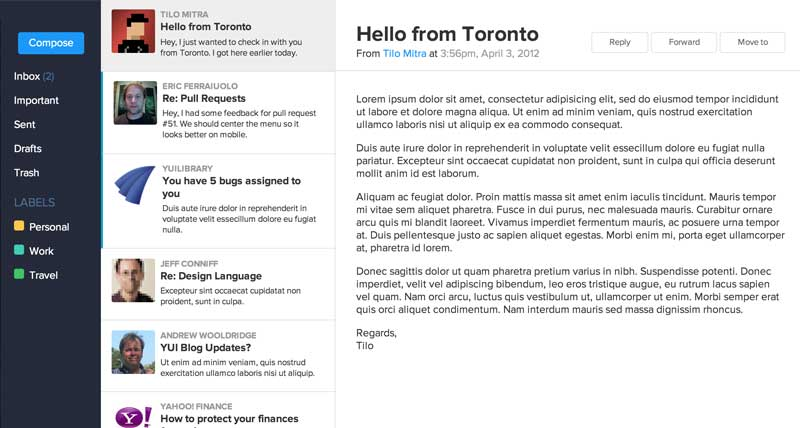
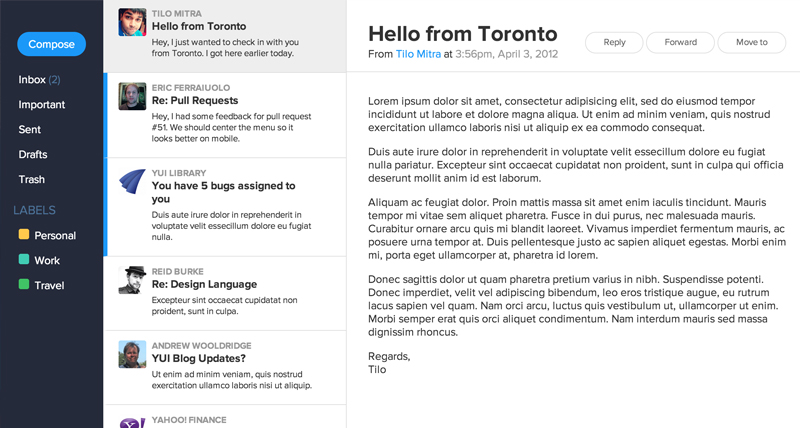
update email layout to be mobile-first

diff --git a/public/css/layouts/email.css b/public/css/layouts/email.css
@@ -1,43 +1,38 @@
+/*
+ * -- BASE STYLES --
+ * Most of these are inherited from Base, but I want to change a few.
+ */
 body {
     color: #333;
 }
+
+
+
 a {
     text-decoration: none;
     color: #1b98f8;
 }
 
-/* LAYOUT CSS */
-#layout {
-    padding-left:500px; /* "left col (nav + list)" width */
-    position: relative;
+/*
+ * -- FONT-FAMILY STYLES --
+ * This is the font-family that I want to use for this page
+ */
+body,
+.pure-g [class *= "pure-u"] {
+    font-family: "proxima-nova", sans-serif;
 }
 
-#nav, #list {
-    position: fixed;
-    top: 0;
-    bottom: 0;
-    overflow: auto;
-}
-#nav {
-    margin-left:-500px; /* "left col (nav + list)" width */
-    width:150px;
-    background: rgb(37, 42, 58);
-    text-align: center;
-    padding: 2em 0;
-}
 
-#list {
-    margin-left: -350px;
-    width:350px;
-    border-right: 1px solid #ddd;
-}
-
-/* HELPER CLASSES */
+/*
+ * -- HELPER STYLES --
+ * Over-riding some of the .pure-button styles to make my buttons look unique
+ */
 .primary-button,
 .secondary-button {
     -webkit-box-shadow: none;
     -moz-box-shadow: none;
     box-shadow: none;
+    border-radius: 20px;
 }
 .primary-button {
     color: #fff;
@@ -52,10 +47,52 @@ a {
     font-size: 80%;
 }
 
+/*
+ * -- LAYOUT STYLES --
+ * This layout consists of three main elements, `#nav` (navigation bar), `#list` (email list), and `#main` (email content). All 3 elements are within `#layout`
+ */
+#layout, #nav, #list, #main {
+    margin: 0;
+    padding: 0;
+}
+
+/* Make the navigation 100% width on phones */
+#nav {
+    width: 100%;
+    height: 40px;
+    position: relative;
+    background: rgb(37, 42, 58);
+    text-align: center;
+}
+/* Show the "Menu" button on phones */
+#nav .nav-menu-button {
+    display: block;
+    top: 0.5em;
+    right: 0.5em;
+    position: absolute;
+}
+
+/* When "Menu" is clicked, the navbar should be 80% height */
+#nav.active {
+    height: 80%;
+}
+/* Don't show the navigation items... */
+.nav-inner {
+    display: none;
+}
+
+/* ...until the "Menu" button is clicked */
+#nav.active .nav-inner {
+    display: block;
+    padding: 2em 0;
+}
 
 
-/* Vertical Navigation Styles */
-#nav .pure-menu {
+/*
+ * -- NAV BAR STYLES --
+ * Styling the default .pure-menu to look a little more unique.
+ */
+#nav .pure-menu.pure-menu-open {
     background: transparent;
     border: none;
     text-align: left;
@@ -74,34 +111,33 @@ a {
         color: rgb(75, 113, 151);
     }
 
-    #nav .nav-menu-button {
-        display: none;
-    }
 
-    .email-count {
-        color: rgb(75, 113, 151);
-    }
+/*
+ * -- EMAIL STYLES --
+ * Styles relevant to the email messages, labels, counts, and more.
+ */
+.email-count {
+    color: rgb(75, 113, 151);
+}
 
-    .email-label-personal,
-    .email-label-work,
-    .email-label-travel {
-        width: 15px;
-        height: 15px;
-        display: inline-block;
-        margin-right: 0.5em;
-        border-radius: 3px;
-    }
-    .email-label-personal {
-        background: #ffc94c;
-    }
-    .email-label-work {
-        background: #41ccb4;
-    }
-    .email-label-travel {
-        background: #40c365;
-    }
-
-
+.email-label-personal,
+.email-label-work,
+.email-label-travel {
+    width: 15px;
+    height: 15px;
+    display: inline-block;
+    margin-right: 0.5em;
+    border-radius: 3px;
+}
+.email-label-personal {
+    background: #ffc94c;
+}
+.email-label-work {
+    background: #41ccb4;
+}
+.email-label-travel {
+    background: #40c365;
+}
 
 
 /* Email Item Styles */
@@ -131,7 +167,7 @@ a {
     background: #eee;
 }
 .email-item-unread {
-    border-left: 6px solid #02a3c6;
+    border-left: 6px solid #1b98f8;
 }
 
 /* Email Content Styles */
@@ -161,21 +197,56 @@ a {
             margin-bottom: 0.3em;
         }
 
-
-@media (max-width: 867px) {
-
-    #list,
-    #main {
-        width: 100%;
+    .email-avatar {
+        width: 40px;
+        height: 40px;
     }
+
+
+/*
+ * -- TABLET (AND UP) MEDIA QUERIES --
+ * On tablets and other medium-sized devices, we want to customize some
+ * of the mobile styles.
+ */
+@media (min-width: 40em) {
+
+    /* Move the layout over so we can fit the nav + list in on the left */
     #layout {
-        padding-left: -150px;
+        padding-left:500px; /* "left col (nav + list)" width */
+        position: relative;
     }
+
+    /* These are position:fixed; elements that will be in the left 500px of the screen */
+    #nav, #list {
+        position: fixed;
+        top: 0;
+        bottom: 0;
+        overflow: auto;
+    }
+    #nav {
+        margin-left:-500px; /* "left col (nav + list)" width */
+        width:150px;
+        height: 100%;
+    }
+
+    /* Show the menu items on the larger screen */
+    .nav-inner {
+        display: block;
+        padding: 2em 0;
+    }
+
+    /* Hide the "Menu" button on larger screens */
+    #nav .nav-menu-button {
+        display: none;
+    }
+
     #list {
+        margin-left: -350px;
+        width: 100%;
         height: 33%;
-        border-right: 0;
         border-bottom: 1px solid #ddd;
     }
+
     #main {
         position: fixed;
         top: 33%;
@@ -185,36 +256,29 @@ a {
         overflow: auto;
         width: auto; /* so that it's not 100% */
     }
+
 }
 
-@media (max-width: 480px) {
-    #layout, #nav, #list, #main {
+/*
+ * -- DESKTOP (AND UP) MEDIA QUERIES --
+ * On desktops and other large-sized devices, we want to customize some
+ * of the mobile styles.
+ */
+@media (min-width: 60em) {
+
+    /* This will take up the entire height, and be a little thinner */
+    #list {
+        margin-left: -350px;
+        width:350px;
+        height: 100%;
+        border-right: 1px solid #ddd;
+    }
+
+    /* This will now take up it's own column, so don't need position: fixed; */
+    #main {
         position: static;
         margin: 0;
         padding: 0;
     }
-    #nav {
-        width: 100%;
-        height: 40px;
-        position: relative;
-    }
-    #nav .nav-menu-button {
-        display: block;
-        top: 0.5em;
-        right: 0.5em;
-        position: absolute;
-    }
-    #nav.active {
-        height: 80%;
-    }
-    .nav-inner {
-        display: none;
-    }
-    #nav.active .nav-inner {
-        display: block;
-    }
-    .email-avatar {
-        width: 40px;
-        height: 40px;
-    }
 }
+
